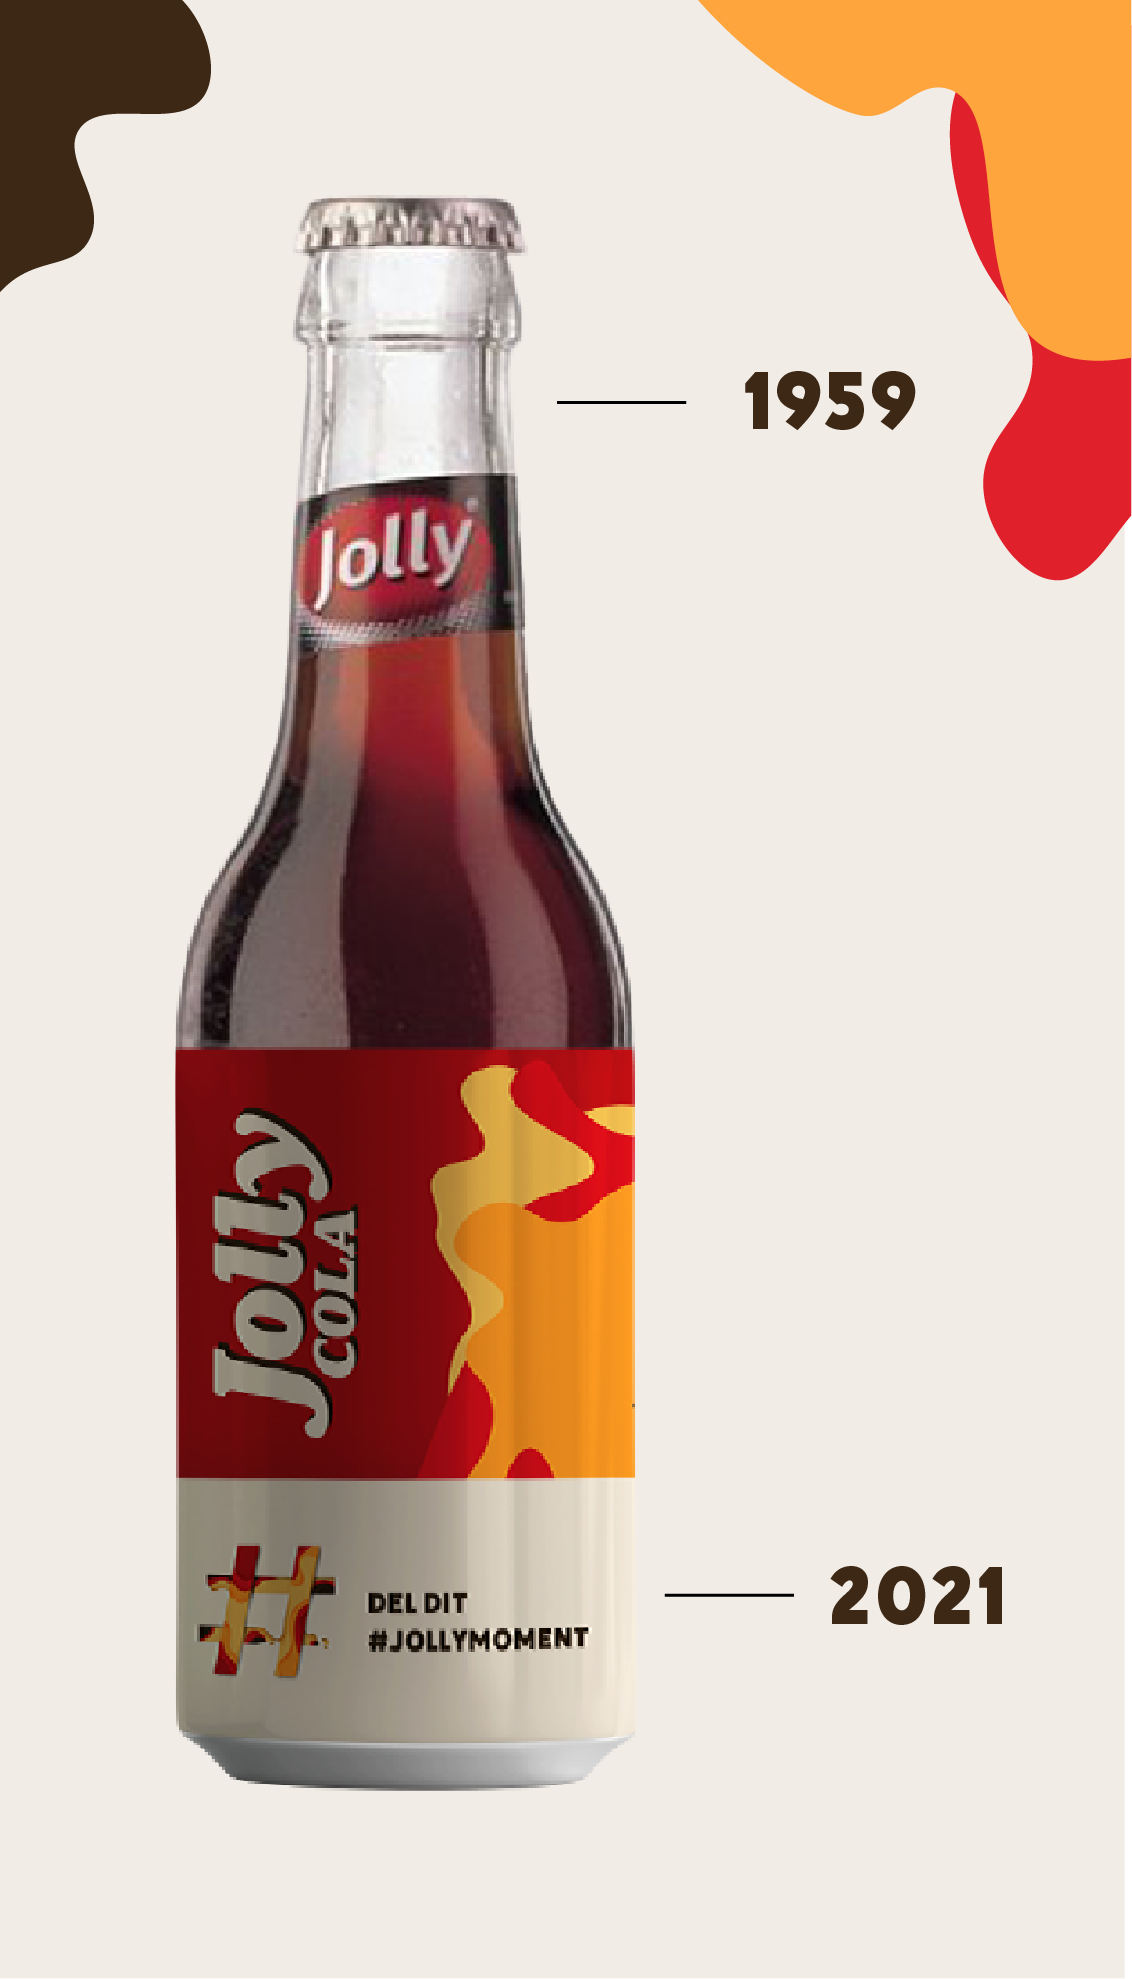
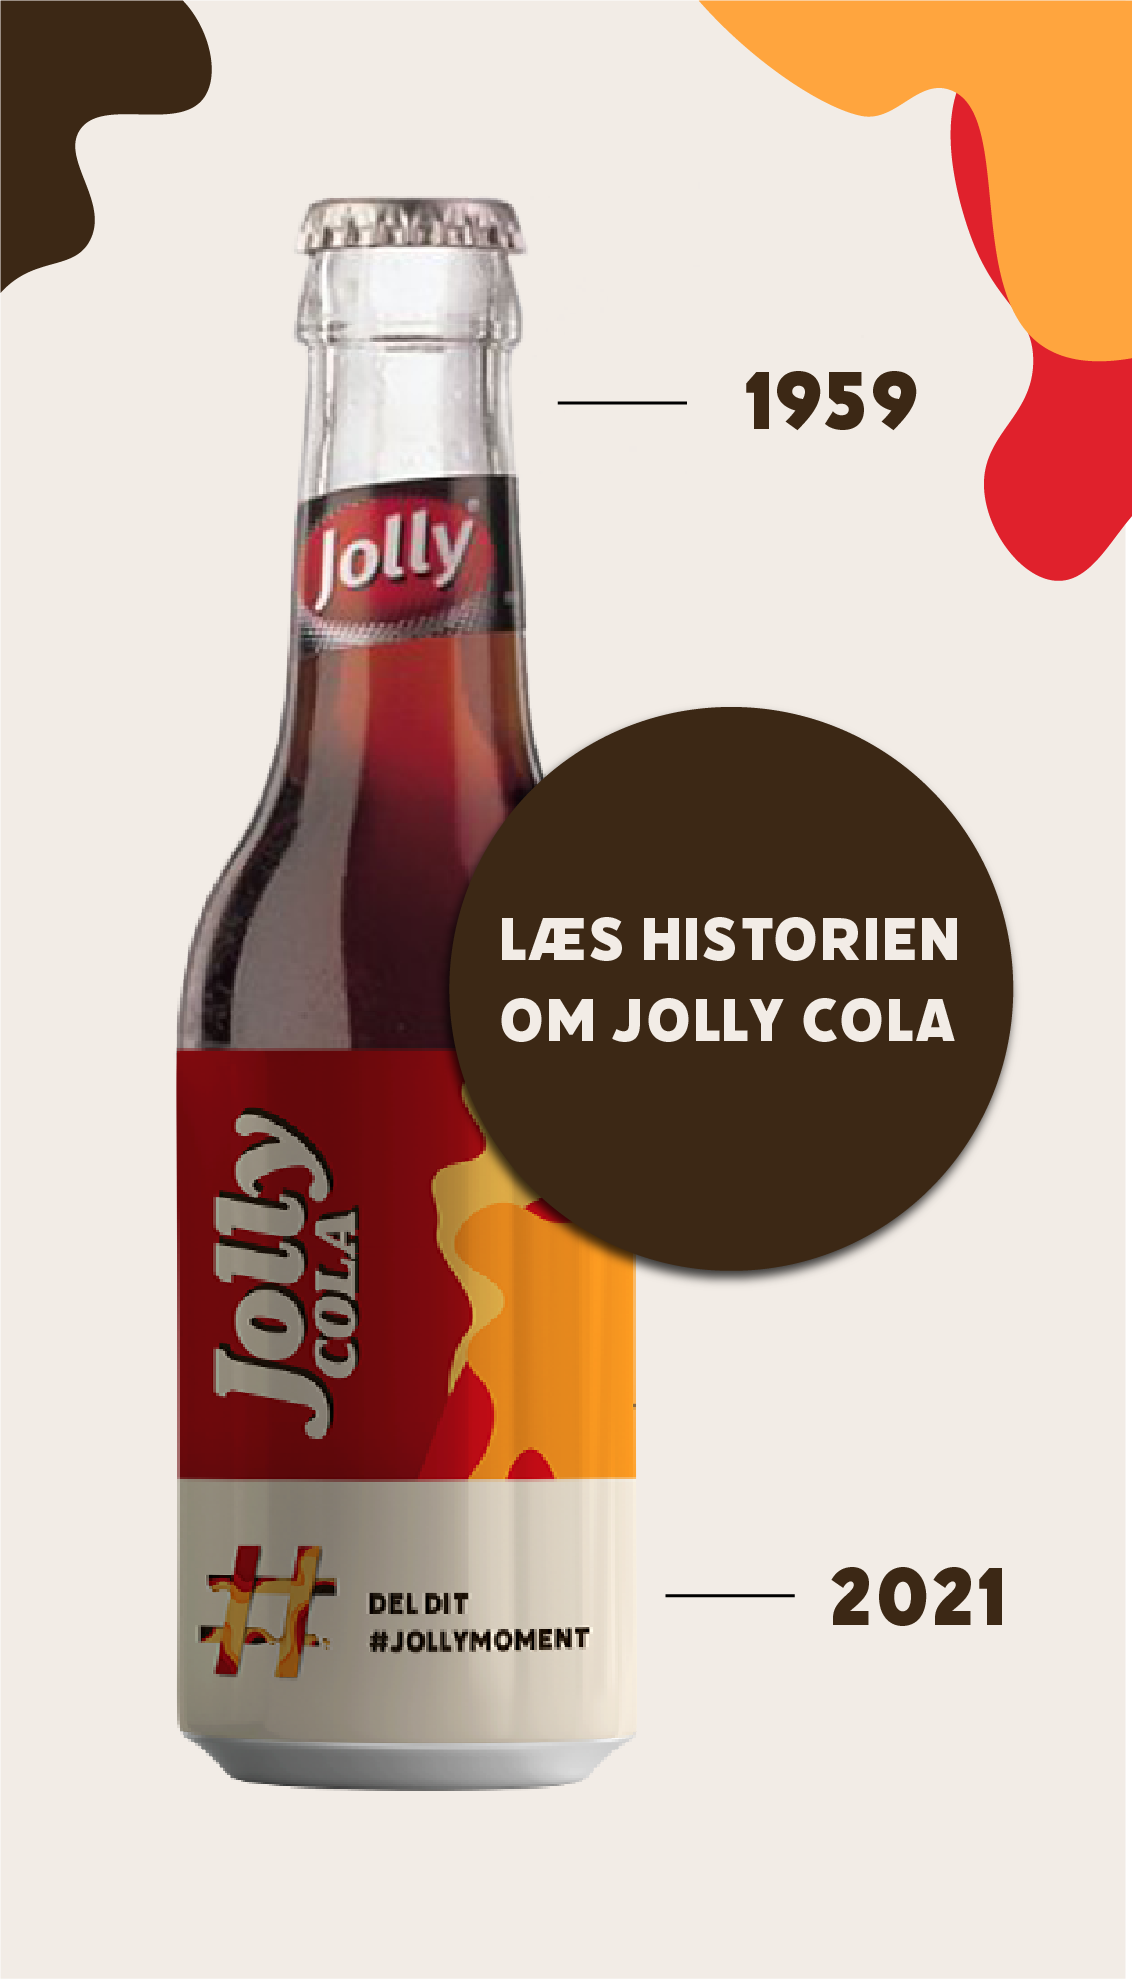
Opdatering

diff --git a/css/style.css b/css/style.css
@@ -318,40 +318,14 @@ footer a:hover {
   background-color: var(--orange);
 }
 /* FORSIDE - historien */
-/* historien - button */
-.btnhistorieforside {
+.historienforsidecom h2 {
+  position: absolute;
+  color: var(--brown);
   font-family: var(--overskrift1);
-  border-radius: 50%;
-  width: 200px;
-  height: 200px;
-  line-height: 40px;
-  font-size: 25px;
-  box-shadow: 0px 0px 5px var(--brown);
-  position: absolute;
-  top: 122%;
-  left: 44%;
-  /*margin-left: -40px;
-  -webkit-transform: translateZ(0);
-  -webkit-backface-visibility: hidden;
-  position: absolute;
-  top: 0;
-  border-radius: 50%;
-  color: var(--white);
-  font-family: var(--overskrift2);
-  background: var(--red);
-  font-size: 32px;
-  text-align: center;*/
 }
-.btnhistorieforside:link, .btnhistorieforside:visited {
-  background-color: var(--brown);
-  color: var(--white);
-  padding: 20px 20px;
-  text-align: center;
-  text-decoration: none;
-  display: inline-block;
-}
-.btnhistorieforside:hover, .btnhistorieforside:active {
-  background-color: var(--orange);
+.historienforsidecom h3 {
+  position: absolute;
+  color: var(--orange);
 }
 /* FORSIDE - scan din jolly quiz */
 .jollyquizforside {
@@ -395,61 +369,10 @@ footer a:hover {
 }
 .jollyquizforside a:hover, .jollyquizforside a:active {
   background-color: var(--darkred);
-} */
-
-/*.jollyquizforside {
-  background-color: var(--yellow);
-  padding-top: 40px;
-  margin-top: 60px;
-  display: flex;
-  flex-wrap: wrap;
-  gap: 10px;
-  justify-content: space-around;
 }
-.jollyquizforside img{
-  margin: 0;
-  padding: 0;
-  width: 100%;
-  height: auto;
-  margin-top: 10%;
-  margin-bottom: -4px;
-}
-.jollyquizforside h2 {
-  font-family: var(--overskrift1);
-  color: var(--brown);
-  display: block;
-  margin-left: auto;
-  margin-right: auto;
-}
-.jollyquizforside p {
-  font-family: var(--brødtekst);
-  color: var(--brown);
-  width: 23ch;
-  display: block;
-  margin-left: auto;
-  margin-right: auto;
-}
-*/
-/* FORSIDE - scan din jolly quiz - button */
-/*.btnjollyquizforside {
-  font-family: var(--overskrift2);
-}
-.btnjollyquizforside:link, .btnjollyquizforside:visited {
-  background-color: var(--brown);
-  color: var(--white);
-  padding: 14px 50px;
-  text-align: center;
-  text-decoration: none;
-  display: inline-block;
-  box-shadow: 0px 0px 5px var(--brown);
-}
-.btnjollyquizforside:hover, .btnjollyquizforside:active {
-  background-color: var(--darkred);
-} */
-
 /* JOLLY QUIZ - header */
 .headerjollyquiz {
-  background-color: var(--darkred)
+  background-color: var(--darkred);
 }
 .headerjollyquiz h1 {
   position: absolute;
@@ -856,9 +779,6 @@ footer a:hover {
     margin-bottom: 10px;
   }
   /* FORSIDE - scan din jolly quiz */
-  .jollyquizforside {
-
-  }
   .jollyquizforside img{
     width: 80%;
     height: auto;
@@ -1176,7 +1096,18 @@ footer a:hover {
     margin-top: 10px;
     margin-bottom: 10px;
   }
+  /* FORSIDE - historien */
+  .historienforsidecom h2 {
+    top: 170%;
+    left: 26%;
+    z-index: 1;
+  }
+  .historienforsidecom h3 {
+    top: 160%;
+    left: 26%;
+  }
 
+  /* FORSIDE - scan din jolly quiz */
   .btnjollyquizforside {
     font-size: 20px;
     margin-top: 10px;

diff --git a/index.html b/index.html
@@ -75,13 +75,12 @@
       </section>
 
       <!--Historien om Jolly Cola-->
-      <section class="historienforside">
-        <article>
-          <figure>
-            <img class="historienforsidemobil" src="images/historienmobil.png" alt="Jolly cola emballage fra 1959 til 2021" style="width: 100%; height: auto;">
-            <img class="headercom" src="images/headerforsidecom.png" alt="Jolly cola emballage fra 1959 til 2021" style="width: 100%; height: auto;">
-          </figure>
-          <a class="btnhistorieforside" href="#" target="_blank">Læs historien om Jolly Cola</a>
+      <section>
+            <a href="historien.html"><img class="headermobil" src="images/historienmobil.png" alt="#" style="width: 100%; height: auto;"></a>
+            <a href="historien.html"><img class="headercom" src="images/historiencom.png" alt="#" style="width: 100%; height: auto;"></a>
+        <article class="historienforsidecom">
+          <h3>Læs mere om</h3>
+          <h2>Historien bag og Jolly Cola</h2>
         </article>
       </section>
 
